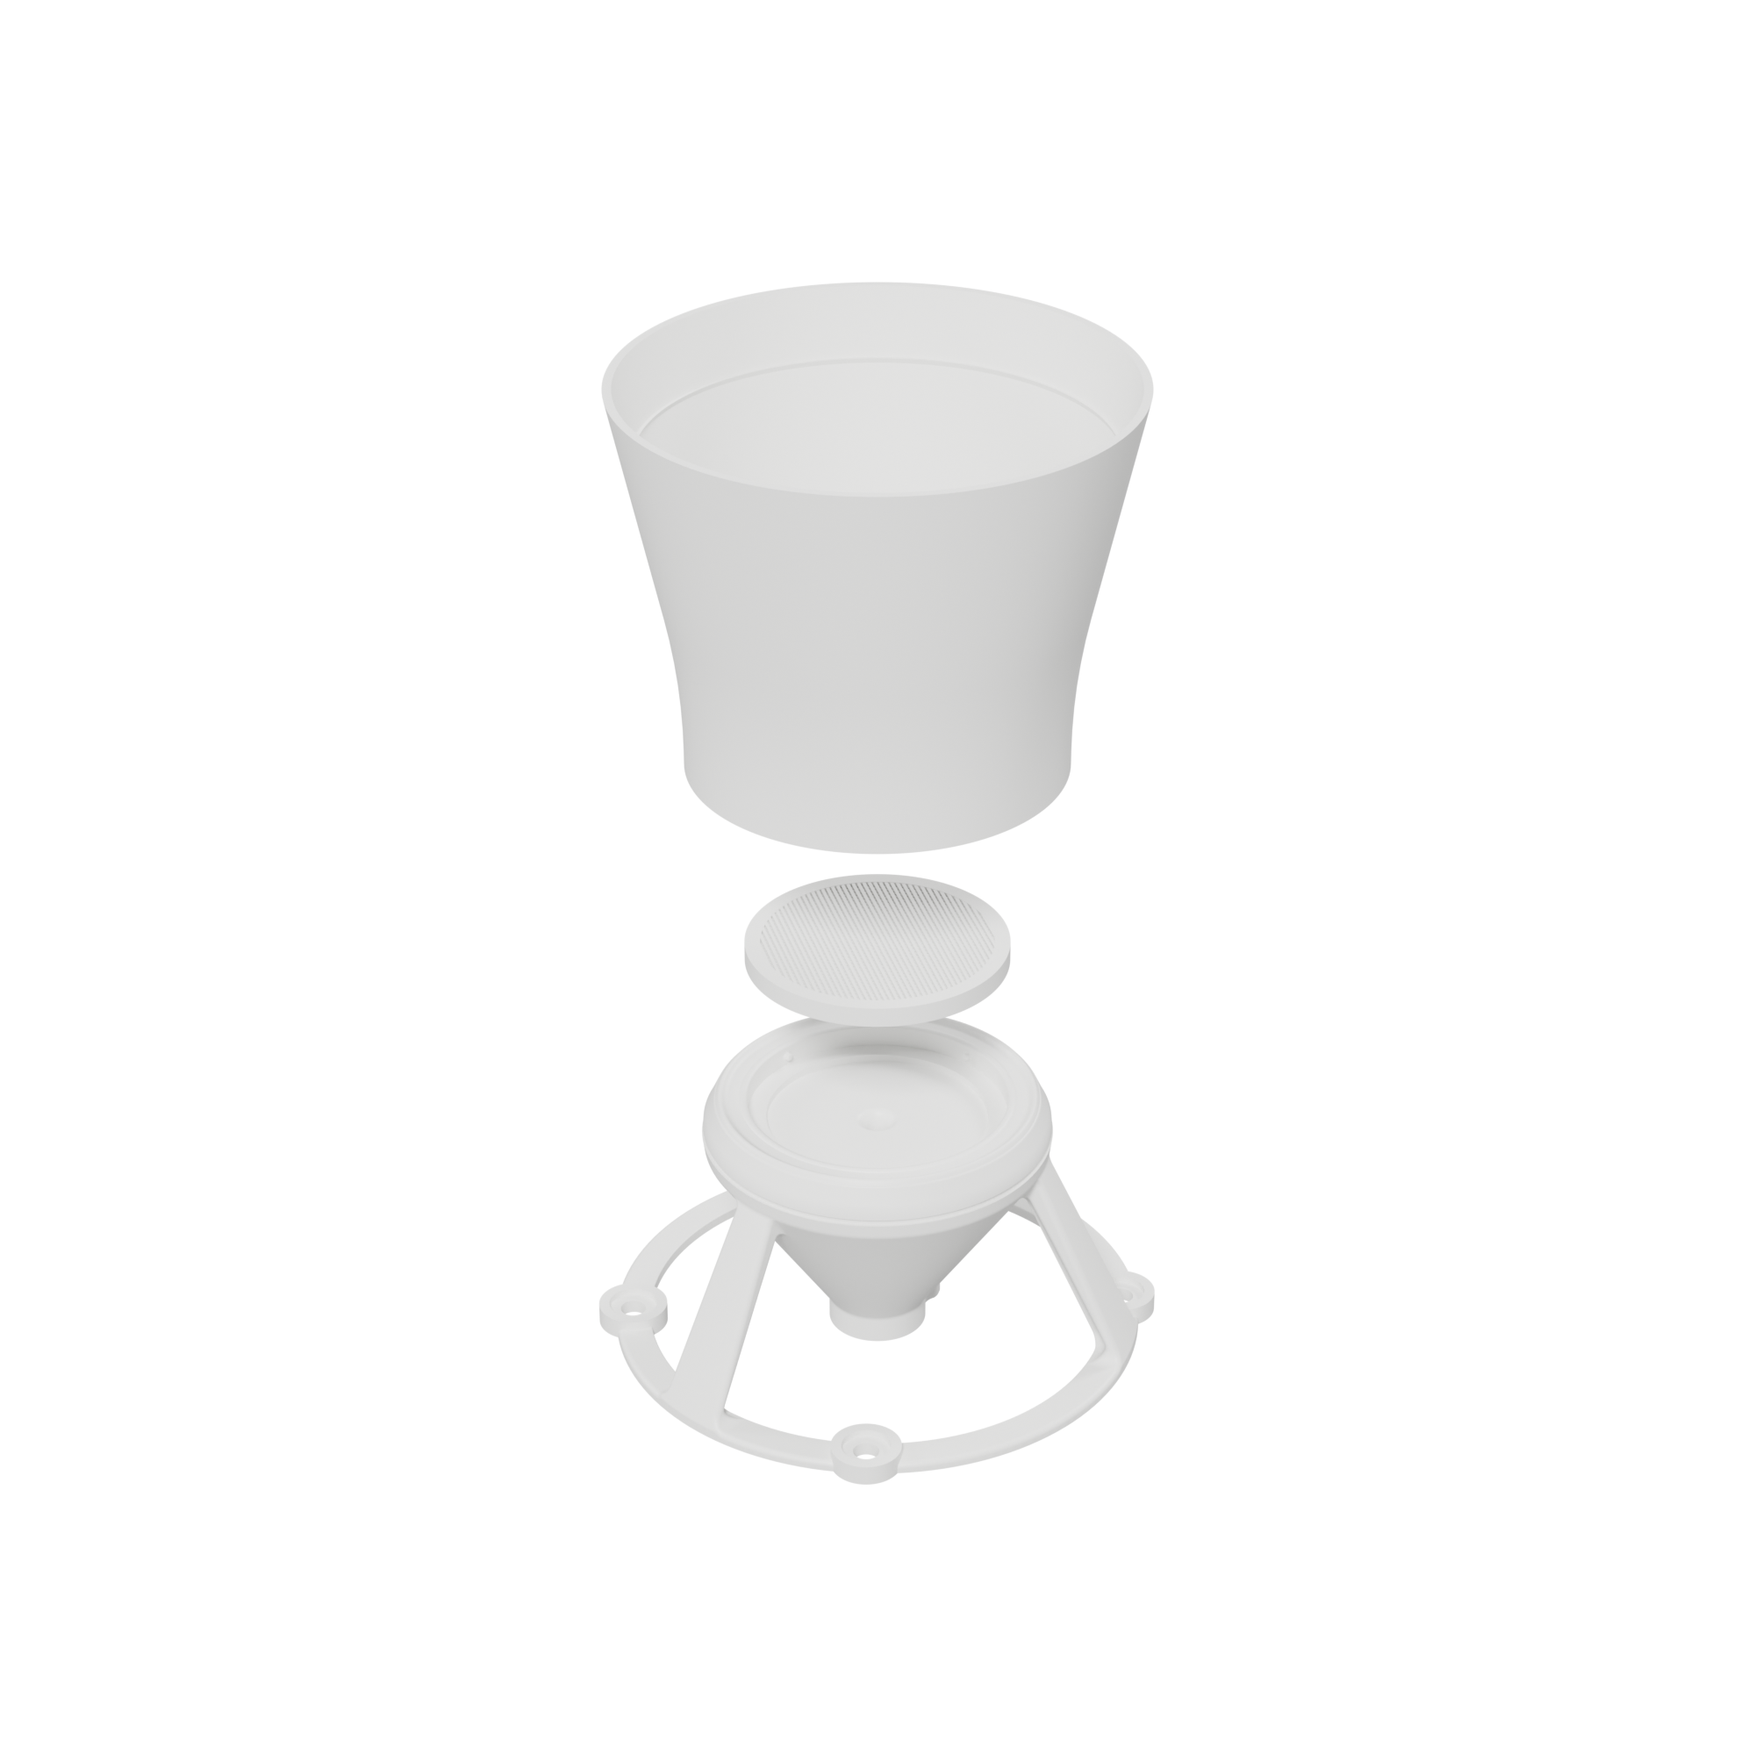
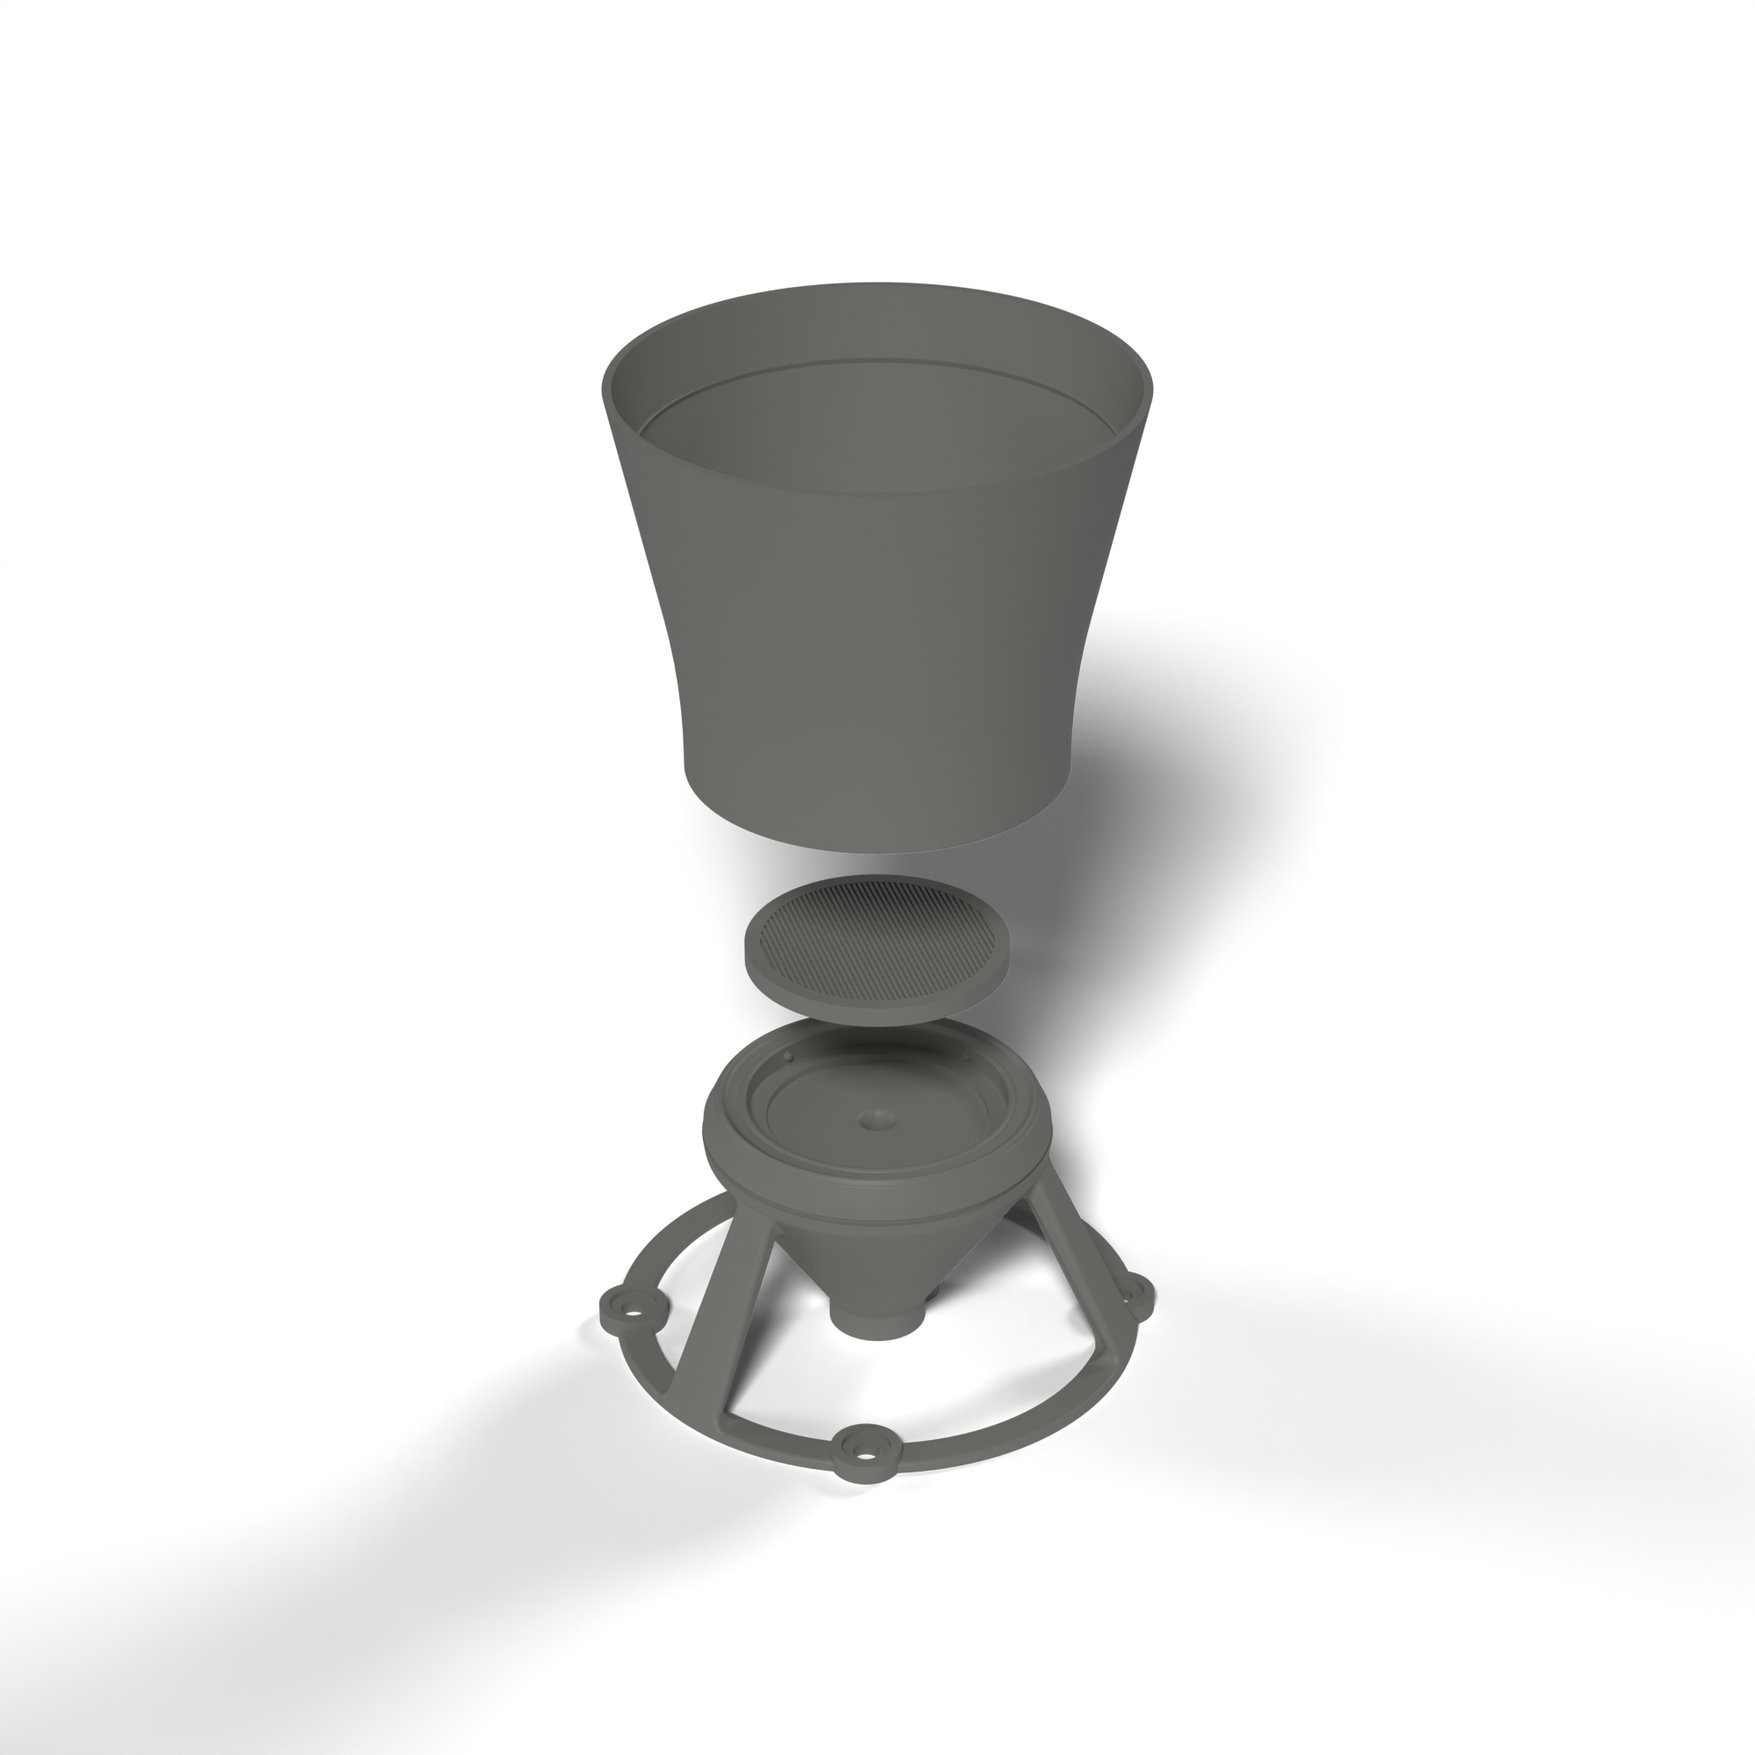
renders: darken material and add contact shadow for legibility on white
The parts were rendered in a near-white plastic chosen for a dark page. The
site is now white, so a white object on a white ground had no edge
definition. Material darkened to a mid-grey and a soft contact shadow added
so each part reads as a solid object. Measured object luminance on white
went from about 215 to 117-143.

The membrane-clamp section now colours the base, membrane and funnel
distinctly, following the convention of a technical cross-section, so the
sealing mechanism is legible.

The full-assembly section render is removed; the exploded view and the two
filter-support images cover the same ground more clearly.

Changed region(s): [[0.0, 0.155, 0.744, 1.0]]

diff --git a/tools/render_parts.py b/tools/render_parts.py
@@ -7,10 +7,11 @@ metres, so a 77 mm base arrives 77 m wide; every imported object is scaled
 by 0.001 and the scale applied immediately, after which all coordinates in
 this script are genuine metres (i.e. millimetres / 1000).
 
-Only four renders are produced here — real photographs of the printed
+Only three renders are produced here — real photographs of the printed
 device cover the hero shot, the per-part views, and the filter-support
 comparison, so this script is limited to the views a camera cannot take:
-an exploded stack and two cutaway sections.
+an exploded stack and two cutaways (the sealing interface, and the
+filter-support strand mesh).
 
 Camera framing, the section cut plane, and the membrane's position are all
 computed from the imported geometry's bounding boxes at render time — none
@@ -42,11 +43,20 @@ FILTER_SUPPORT_STL = os.path.join(
     ROOT, "hardware", "stl", "filter-support-strand-mesh.stl")
 ASSEMBLY_STL = os.path.join(ROOT, "hardware", "assembly", "assembly.stl")
 
-# Matte grey-white plastic, used for every part except where the
-# membrane-clamp figure needs the three elements colour-coded.
-COLOR_PLASTIC = (0.82, 0.82, 0.80, 1.0)
-COLOR_FUNNEL_ACCENT = (0.55, 0.68, 0.80, 1.0)   # cool blue-grey
-COLOR_MEMBRANE = (0.86, 0.55, 0.16, 1.0)        # warm amber, reads as paper
+# Matte mid-grey plastic, used for every part except where the
+# membrane-clamp figure needs the three elements colour-coded. The site
+# places these renders on a near-white page background, so the base
+# colour must sit well below white in lightness or the part loses its
+# silhouette; 0.82 (the original value) read as a pale blur, hence the
+# drop to ~0.4.
+COLOR_PLASTIC = (0.42, 0.42, 0.39, 1.0)
+# The three elements of the membrane-clamp figure, colour-coded in the
+# manner of the source thesis figure (base cyan-teal, membrane red,
+# funnel yellow — see docs/thesis.pdf Figure 10) but desaturated into a
+# restrained, technical palette rather than the thesis's saturated hues.
+COLOR_BASE_ACCENT = (0.28, 0.38, 0.40, 1.0)     # cool slate-teal — the base
+COLOR_FUNNEL_ACCENT = (0.56, 0.43, 0.16, 1.0)   # muted ochre — the funnel
+COLOR_MEMBRANE = (0.60, 0.18, 0.13, 1.0)        # muted terracotta — the membrane
 
 
 def mm(x):
@@ -66,6 +76,15 @@ def reset():
     scene.render.resolution_y = RES
     scene.render.image_settings.file_format = "PNG"
     scene.render.image_settings.color_mode = "RGBA"
+    # Blender 5.2 defaults to the AgX view transform, which rolls off
+    # highlights and desaturates strongly — it turned the intended muted
+    # teal/ochre/terracotta of the membrane-clamp figure into washed-out
+    # pastels, and likely made the original near-white plastic look even
+    # paler than its base colour alone would. Standard renders the
+    # material's base colour with predictable, non-filmic contrast, which
+    # these technical/diagrammatic renders want more than photographic
+    # highlight rolloff.
+    scene.view_settings.view_transform = "Standard"
     try:
         prefs = bpy.context.preferences.addons["cycles"].preferences
         prefs.compute_device_type = "METAL"
@@ -94,7 +113,7 @@ def set_material(obj, mat):
     obj.data.materials.append(mat)
 
 
-KEY_ENERGY = 260
+KEY_ENERGY = 30
 KEY_DIST = 3.2  # metres — matches the "key" entry below
 
 
@@ -115,11 +134,17 @@ def lighting(center, fill_dir=None, fill_radius=None, fill_strength=3.0):
     happened on the first attempt — irradiance falls off with the square
     of distance, so reusing a far light's power up close floods it).
     Instead it is derived from the key light's own irradiance at its
-    distance, scaled to the new distance, times `fill_strength`."""
+    distance, scaled to the new distance, times `fill_strength`.
+
+    The world's ambient strength and the fill/rim energies are kept low
+    relative to the key (roughly 4:1 key-to-fill) so that form is carried
+    by shading gradients rather than washed flat — with the original
+    near-white plastic and a strong flat ambient, mid-tones and shadow
+    fell in too narrow a range to read as depth."""
     world = bpy.data.worlds.new("studio")
     world.use_nodes = True
     world.node_tree.nodes["Background"].inputs[0].default_value = (1, 1, 1, 1)
-    world.node_tree.nodes["Background"].inputs[1].default_value = 0.6
+    world.node_tree.nodes["Background"].inputs[1].default_value = 0.05
     bpy.context.scene.world = world
 
     target = bpy.data.objects.new("light-target", None)
@@ -128,8 +153,8 @@ def lighting(center, fill_dir=None, fill_radius=None, fill_strength=3.0):
 
     lights = [
         ("key", Vector((0.6, -0.8, 0.9)), KEY_DIST, KEY_ENERGY, 0.6),
-        ("fill", Vector((-0.8, -0.4, 0.4)), 3.6, 90, 0.9),
-        ("rim", Vector((0.0, 0.9, 0.6)), 3.4, 130, 0.7),
+        ("fill", Vector((-0.8, -0.4, 0.4)), 3.6, 8, 0.9),
+        ("rim", Vector((0.0, 0.9, 0.6)), 3.4, 10, 0.7),
     ]
     if fill_dir is not None:
         dist = max(fill_radius * 2.5, 0.05)
@@ -172,6 +197,23 @@ def world_bbox(obj):
     ys = [c.y for c in corners]
     zs = [c.z for c in corners]
     return Vector((min(xs), min(ys), min(zs))), Vector((max(xs), max(ys), max(zs)))
+
+
+def radial_extent(obj, axis_xy, z_lo, z_hi):
+    """Maximum XY distance from `axis_xy` among `obj`'s vertices whose
+    world Z falls in [z_lo, z_hi] — the true local radius at a given
+    height band. The overall bounding box is no substitute here: the
+    base's widest point is its bottom brim/legs, not its top connection,
+    so `bbox_radius` would place the membrane-clamp crop in empty air."""
+    mw = obj.matrix_world
+    best = 0.0
+    for v in obj.data.vertices:
+        w = mw @ v.co
+        if z_lo <= w.z <= z_hi:
+            r = math.hypot(w.x - axis_xy.x, w.y - axis_xy.y)
+            if r > best:
+                best = r
+    return best
 
 
 def combined_bbox(objs):
@@ -284,6 +326,12 @@ def frame_camera(center, radius, direction, lens=85, margin=1.15):
     cam_data = bpy.data.cameras.new("cam")
     cam_data.lens = lens
     cam_data.sensor_width = SENSOR_WIDTH
+    # Blender's default near-clip (0.1 m) silently clips the entire
+    # subject out of a tight close-up: the membrane-clamp crop sits the
+    # camera ~70 mm from its focus, inside that default, which produced a
+    # fully transparent render with no error. 1 mm is safe at every scale
+    # this script uses.
+    cam_data.clip_start = mm(1)
     cam = bpy.data.objects.new("cam", cam_data)
     bpy.context.collection.objects.link(cam)
     cam.location = Vector(center) + direction.normalized() * dist
@@ -296,6 +344,25 @@ def frame_camera(center, radius, direction, lens=85, margin=1.15):
     track.target = empty
     bpy.context.scene.camera = cam
     return dist
+
+
+def add_shadow_catcher(lo, hi, margin_factor=8.0):
+    """A large plane at the lowest point of the scene (`lo.z`), marked as
+    a Cycles shadow catcher so it renders *only* the soft contact shadow
+    the geometry casts on it — the plane itself stays invisible. Combined
+    with `film_transparent`, the shadowed pixels get partial alpha rather
+    than none, so the shadow survives into the PNG and composites onto
+    whatever background the page puts under it. Without this, a
+    transparent-background render leaves objects looking like they float
+    with no grounding."""
+    cx, cy = (lo.x + hi.x) / 2, (lo.y + hi.y) / 2
+    size = max(hi.x - lo.x, hi.y - lo.y) * margin_factor
+    bpy.ops.mesh.primitive_plane_add(size=size, location=(cx, cy, lo.z))
+    plane = bpy.context.active_object
+    plane.name = "shadow-catcher"
+    set_material(plane, matte_material("shadow-catcher-mat", (1, 1, 1, 1), roughness=0.9))
+    plane.is_shadow_catcher = True
+    return plane
 
 
 def render(scene, name):
@@ -327,6 +394,7 @@ def render_assembly_exploded():
     center = bbox_center(lo, hi)
     radius = bbox_radius(lo, hi)
     print(f"  exploded bbox lo={lo} hi={hi} center={center} radius={radius}")
+    add_shadow_catcher(lo, hi)
     lighting(center)
     # Generous margin: nothing in an exploded view may touch the frame
     # edge, and the stack is tall relative to its footprint.
@@ -334,61 +402,63 @@ def render_assembly_exploded():
     render(scene, "assembly-exploded")
 
 
-def render_assembly_section():
-    scene = reset()
-    base_obj, filter_obj, funnel_obj = load_assembly_bodies()
-    membrane = add_membrane(filter_obj)
-
-    lo, hi = combined_bbox([base_obj, filter_obj, funnel_obj])
-    center = bbox_center(lo, hi)
-    radius = bbox_radius(lo, hi)
-
-    for obj in (base_obj, filter_obj, funnel_obj):
-        cut_half(obj, center, axis=1, keep_positive=True)
-        set_material(obj, matte_material(f"plastic-{obj.name}", COLOR_PLASTIC))
-    cut_half(membrane, center, axis=1, keep_positive=True)
-    set_material(membrane, matte_material("membrane-mat", COLOR_MEMBRANE, roughness=0.6))
-
-    # Camera sits on the removed (-Y) side, looking into the exposed cut
-    # face, with a slight downward tilt for a natural elevated view. The
-    # cut face is oriented straight at this camera, so it needs its own
-    # light (see `lighting`) rather than relying on the generic rig.
-    view_dir = Vector((0.0, -1.0, 0.12))
-    frame_camera(center, radius, view_dir, margin=1.2)
-    lighting(center, fill_dir=view_dir, fill_radius=radius)
-    render(scene, "assembly-section")
-
-
 def render_membrane_clamp():
     scene = reset()
     base_obj, filter_obj, funnel_obj = load_assembly_bodies()
     membrane = add_membrane(filter_obj)
 
-    # Focus point computed *before* any boolean cut touches the membrane —
-    # read this after cutting it and the query lands on the just-cut,
-    # about-to-be-halved mesh mid-operation, which is not the point we
-    # want the camera aimed at.
-    mlo, mhi = world_bbox(membrane)
-    focus = bbox_center(mlo, mhi)
-    print(f"  membrane-clamp focus={focus}  (membrane bbox {mlo}..{mhi})")
+    # The device is axisymmetric and the cut below exposes a diametral
+    # cross-section, so the sealing ring appears at the outer edges of
+    # the cut face (X = axis ± seal_radius), not at the centre — the
+    # previous version focused on the membrane's own bbox centre, which
+    # is the central axis, and so framed the flat middle of the assembly
+    # rather than the joint. Base is used (not the combined bbox) because
+    # its footprint alone is already centred on the true device axis —
+    # verified against the combined bbox, the two agree to sub-mm — and
+    # it is available before any boolean cut touches the other bodies.
+    base_lo, base_hi = world_bbox(base_obj)
+    funnel_lo, funnel_hi = world_bbox(funnel_obj)
+    axis = Vector(((base_lo.x + base_hi.x) / 2, (base_lo.y + base_hi.y) / 2, 0.0))
 
-    lo, hi = combined_bbox([base_obj, filter_obj, funnel_obj])
-    center = bbox_center(lo, hi)
-    focus.y = center.y
+    # Base and funnel overlap in Z only across the band where they mate;
+    # that band is where the clamping ridge sits.
+    overlap_lo_z = max(base_lo.z, funnel_lo.z)
+    overlap_hi_z = min(base_hi.z, funnel_hi.z)
+
+    # The base's *local* radius at the mating band, not its overall bbox
+    # radius — the widest point of the whole part is its bottom brim/legs,
+    # well below this band, so using the bbox radius here would put the
+    # crop centre in empty air.
+    seal_radius = radial_extent(base_obj, axis, overlap_lo_z, overlap_hi_z)
+
+    # Frame the *span* of the interface — from the membrane's own outer
+    # edge (its inner boundary, where it starts crossing the ridge) out
+    # past the ridge into the funnel wall (its outer boundary, for
+    # context) — centred on the midpoint of that span, not offset from
+    # just one edge of it. An earlier version anchored the crop to the
+    # ridge alone, which put the membrane's edge right at the frame's
+    # left border with the funnel's open wall filling the rest.
+    mem_lo, mem_hi = world_bbox(membrane)
+    membrane_radius = (mem_hi.x - mem_lo.x) / 2
+    inner_x = axis.x + membrane_radius
+    outer_x = axis.x + seal_radius + mm(6)
+    focus = Vector(((inner_x + outer_x) / 2, axis.y, (overlap_lo_z + overlap_hi_z) / 2))
+    zoom_radius = mm(14)
+    print(f"  membrane-clamp focus={focus}  seal_radius={seal_radius*1000:.1f}mm "
+          f"zoom_radius={zoom_radius*1000:.1f}mm")
 
     for obj in (base_obj, filter_obj):
-        cut_half(obj, center, axis=1, keep_positive=True)
-        set_material(obj, matte_material(f"plastic-{obj.name}", COLOR_PLASTIC))
-    cut_half(funnel_obj, center, axis=1, keep_positive=True)
+        cut_half(obj, axis, axis=1, keep_positive=True)
+    set_material(base_obj, matte_material("base-mat", COLOR_BASE_ACCENT))
+    set_material(filter_obj, matte_material("filter-mat", COLOR_PLASTIC))
+    cut_half(funnel_obj, axis, axis=1, keep_positive=True)
     set_material(funnel_obj, matte_material("funnel-mat", COLOR_FUNNEL_ACCENT))
-    cut_half(membrane, center, axis=1, keep_positive=True)
-    set_material(membrane, matte_material("membrane-mat", COLOR_MEMBRANE, roughness=0.6))
+    cut_half(membrane, axis, axis=1, keep_positive=True)
+    set_material(membrane, matte_material("membrane-mat", COLOR_MEMBRANE, roughness=0.55))
 
-    # Zoom on the interface: centred on the membrane, wide enough to show
-    # the base's raised ridge and the funnel's mating slope closing over
-    # it (roughly 30 mm of radial extent), without pulling back to the
-    # whole assembly.
-    zoom_radius = mm(28)
+    # Tight crop on the interface itself — the raised sealing edge, the
+    # membrane crossing it, and the funnel's slope pressing down — all
+    # large in frame.
     view_dir = Vector((0.0, -1.0, 0.15))
     frame_camera(focus, zoom_radius, view_dir, lens=100, margin=1.15)
     lighting(focus, fill_dir=view_dir, fill_radius=zoom_radius)
@@ -408,10 +478,12 @@ def render_filter_support_section():
     center = bbox_center(lo, hi)
     radius = bbox_radius(lo, hi)
 
-    # This render already works well; margin=1.0 with the new FOV-based
-    # frame_camera reproduces its previous framing almost exactly
-    # (verified against the prior render's camera distance), so it is
-    # deliberately left otherwise untouched.
+    # This render's framing already works well; margin=1.0 with the
+    # FOV-based frame_camera reproduces its previous composition almost
+    # exactly (verified against the prior render's camera distance), so
+    # camera and crop are deliberately left untouched — only the material
+    # and lighting below changed.
+    add_shadow_catcher(lo, hi)
     lighting(center)
     frame_camera(center, radius, Vector((0.35, -1.0, 0.55)), lens=100, margin=1.0)
     render(scene, "filter-support-section")
@@ -419,7 +491,6 @@ def render_filter_support_section():
 
 JOBS = {
     "assembly-exploded": render_assembly_exploded,
-    "assembly-section": render_assembly_section,
     "membrane-clamp": render_membrane_clamp,
     "filter-support-section": render_filter_support_section,
 }
